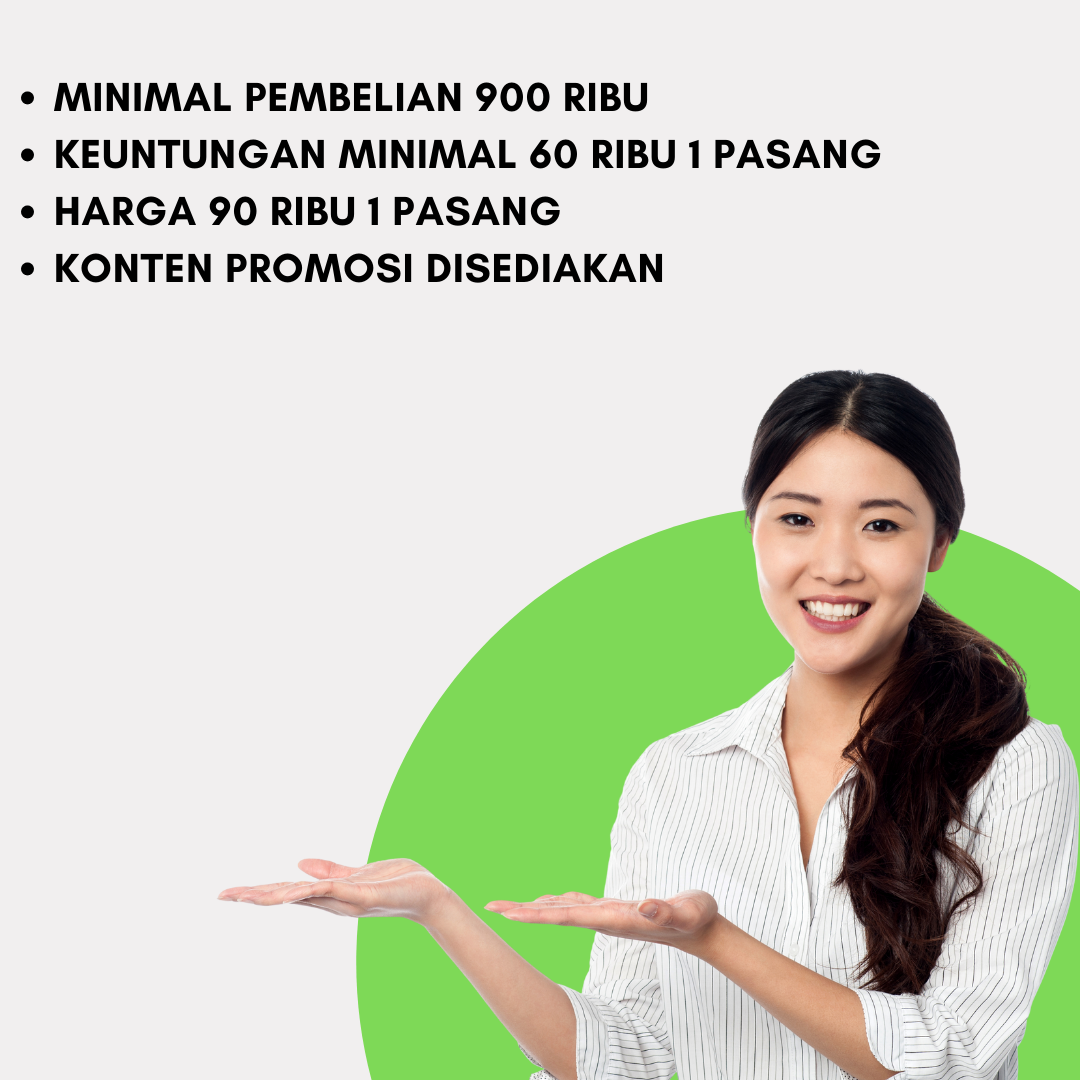
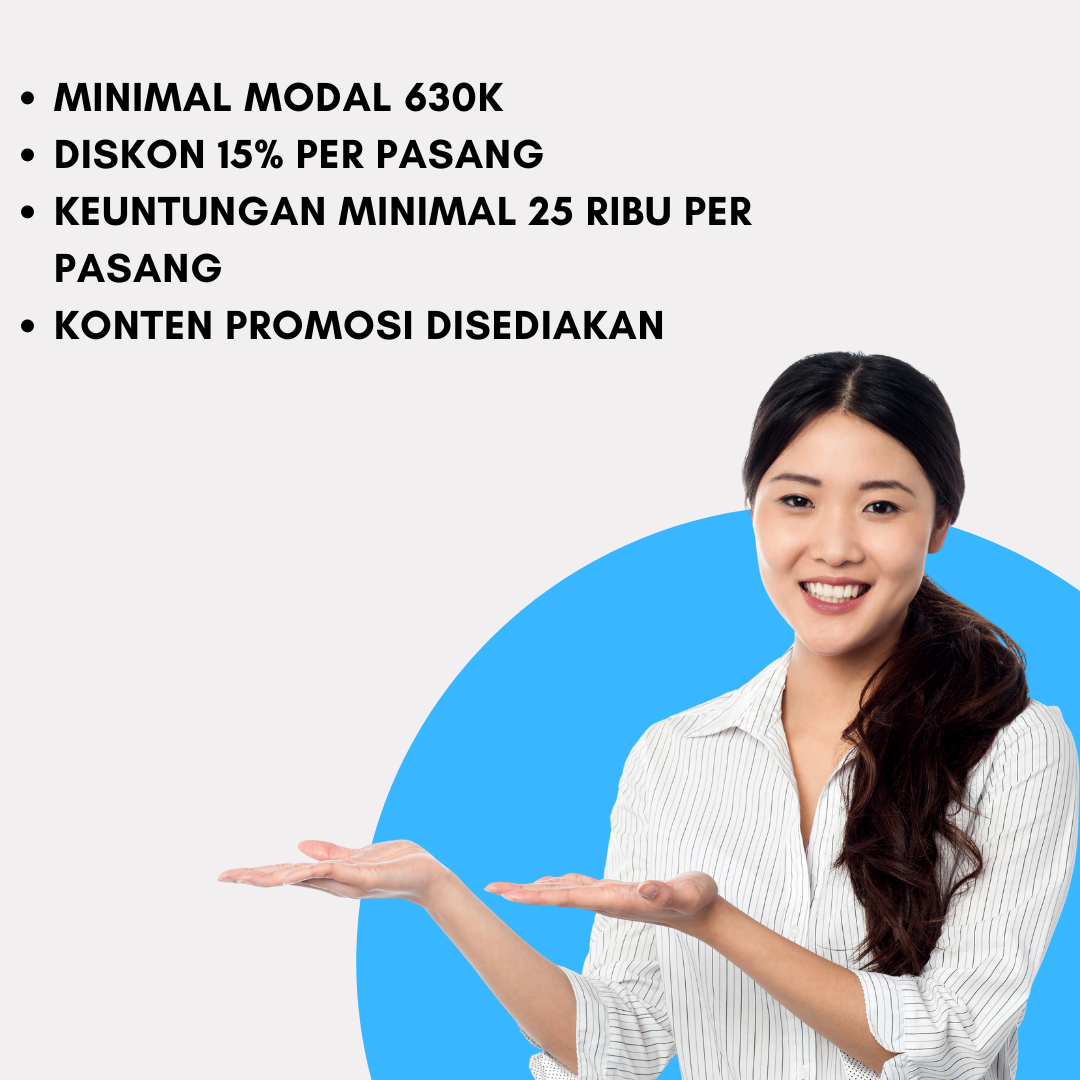
add paket usaha

Changed region(s): [[0.1833, 0.3056, 1.0, 1.0], [0.0, 0.0611, 0.825, 0.3361]]

diff --git a/index.html b/index.html
@@ -233,12 +233,12 @@
 
     <div class="site-section site-blocks-2">
       <div class="container">
-        <div class="row justify-content-center">
-          <div class="col-md-7 site-section-heading text-center pt-4">
-            <h2>Paket Usaha</h2>
-          </div>
-          <div class="col-sm-6 col-md-6 col-lg-6 mb-5 mb-lg-0" data-aos="fade" data-aos-delay="">
-            <a class="block-2-item" href="https://drive.google.com/file/d/1zW-UvrZU_ReNOLM3y00bCKWXWopUoQ5D/preview">
+        <div class="justify-content-center site-section-heading text-center pt-4">
+          <h2>Paket Usaha</h2>
+        </div>
+        <div class="row">
+          <div class="col-sm-6 col-md-6 col-lg-4 mb-4 mb-lg-0" data-aos="fade" data-aos-delay="">
+            <a class="block-2-item" href="https://drive.google.com/file/d/1xZmaeAS8KT5EmR9C5F-s8JdgFx3KQu73/preview">
               <figure class="image">
                 <img src="images/1.png" alt="" class="img-fluid">
               </figure>
@@ -248,14 +248,25 @@
               </div>
             </a>
           </div>
-          <div class="col-sm-6 col-md-6 col-lg-6 mb-5 mb-lg-0" data-aos="fade" data-aos-delay="100">
-            <a class="block-2-item" href="https://drive.google.com/file/d/1aHqOnRv8mftBWCJiOpgBK0mJxpcIvDRG/preview">
+          <div class="col-sm-6 col-md-6 col-lg-4 mb-5 mb-lg-0" data-aos="fade" data-aos-delay="100">
+            <a class="block-2-item" href="https://drive.google.com/file/d/1fYUlTUUQqKxTo3sCW44WoYpt8UQxFyWb/preview">
               <figure class="image">
                 <img src="images/2.png" alt="" class="img-fluid">
               </figure>
               <div class="text">
                 <h5><u>selengkapnya</u></h5>
                 <h3>Reseller</h3>
+              </div>
+            </a>
+          </div>
+          <div class="col-sm-6 col-md-6 col-lg-4 mb-5 mb-lg-0" data-aos="fade" data-aos-delay="200">
+            <a class="block-2-item" href="https://drive.google.com/file/d/14goQqDbCspSXgg5-K86nSspajKQuPoeJ/preview">
+              <figure class="image">
+                <img src="images/3.png" alt="" class="img-fluid">
+              </figure>
+              <div class="text">
+                <h5><u>selengkapnya</u></h5>
+                <h3>Reseller Jago</h3>
               </div>
             </a>
           </div>
